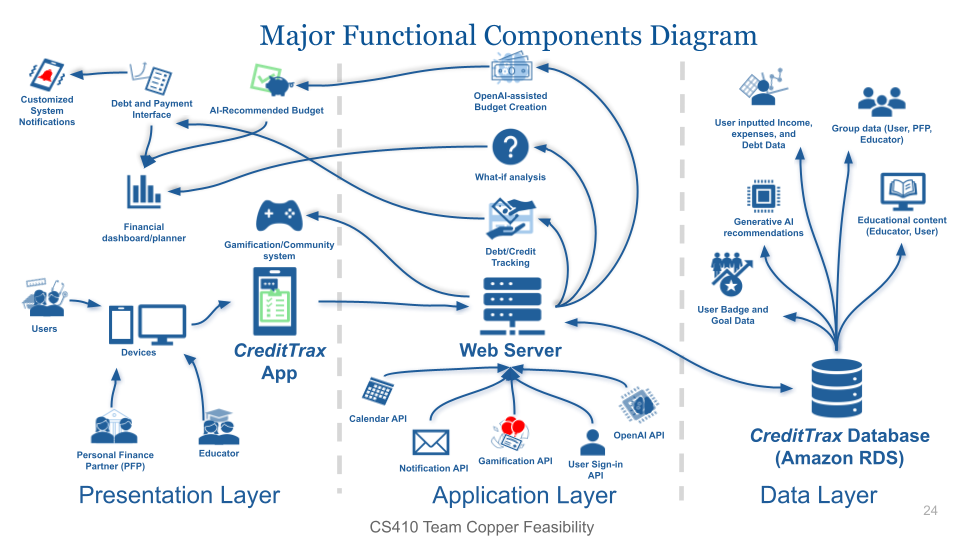
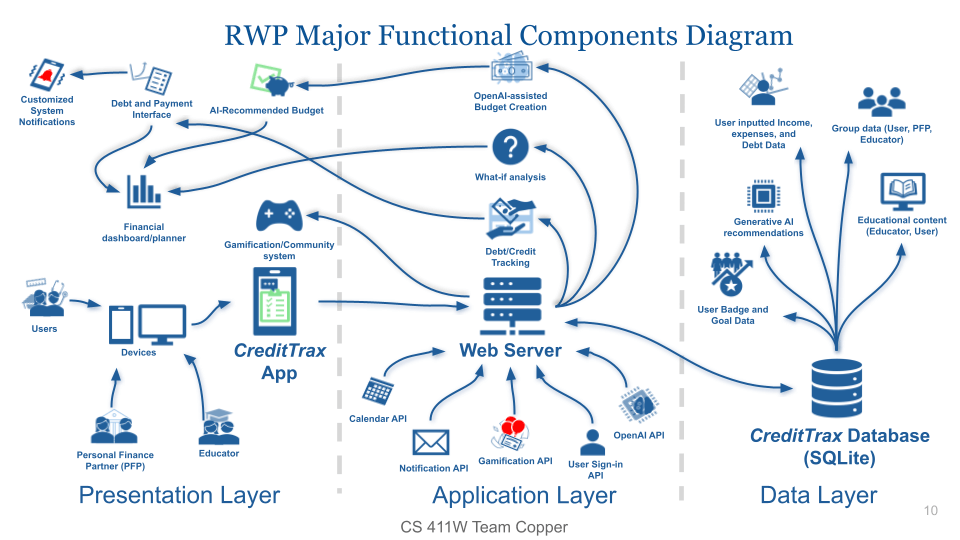
Updating devliverables

diff --git a/_includes/deliverables.html b/_includes/deliverables.html
@@ -1,6 +1,18 @@
 <h1>Deliverables</h1>
 <section id ="deliverables">
 
+    <!--RWP 1-->
+  <div class="deliverable-section-3 deliverable-image">
+    <p class="deliverable-title">RWP vs Prototype 1</p>
+      <img src="./assets/images/deliverables/RWP-vs-prototype-1.png" alt="Current Process Flow">
+  </div>
+
+  <!--RWP 2-->
+  <div class="deliverable-section-3 deliverable-image">
+    <p class="deliverable-title">RWP vs Prototype 2</p>
+      <img src="./assets/images/deliverables/RWP-vs-prototype-2.png" alt="Solution Process Flow">
+  </div>
+
   <!--Current Process Flow-->
   <div class="deliverable-section-1 deliverable-image">
     <p class="deliverable-title">Current Process Flow</p>

diff --git a/_sass/_deliverables.scss b/_sass/_deliverables.scss
@@ -8,7 +8,8 @@
 }
 
 .deliverable-section-1,
-.deliverable-section-2 {
+.deliverable-section-2, 
+.deliverable-section-3{
     min-width: 250px;
     cursor: pointer;
     position: relative;
@@ -20,6 +21,10 @@
 
 .deliverable-section-2 {
     flex: 0 0 calc(25% - 5%);
+}
+
+.deliverable-section-3 {
+    flex: 0 0 calc(50% - 5%);
 }
 
 .deliverable-title {
